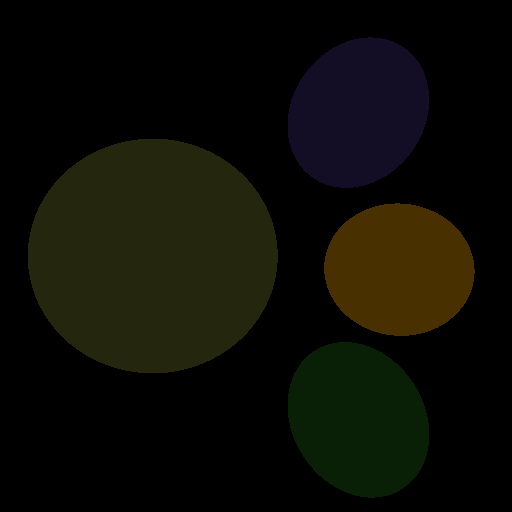
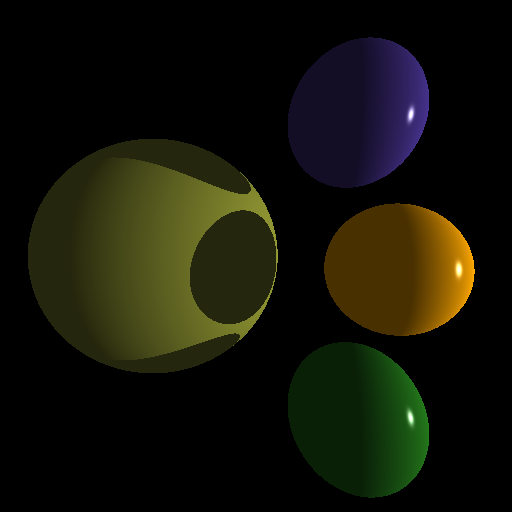
added acne bias safe guard offset

diff --git a/raytracer/src/main/java/at/ac/univie/unet/a01638800/raytracer/raytracedscene/RaytracedScene.java b/raytracer/src/main/java/at/ac/univie/unet/a01638800/raytracer/raytracedscene/RaytracedScene.java
@@ -9,8 +9,8 @@ import at.ac.univie.unet.a01638800.raytracer.phong.PhongShader;
 import at.ac.univie.unet.a01638800.raytracer.scene.*;
 import at.ac.univie.unet.a01638800.raytracer.surfaces.Sphere;
 import at.ac.univie.unet.a01638800.utils.RgbMapper;
+import at.ac.univie.unet.a01638800.raytracer.geometricobjects.Color;
 
-import java.awt.Color;
 import java.awt.image.BufferedImage;
 
 public class RaytracedScene {
@@ -78,39 +78,57 @@ public class RaytracedScene {
     }
 
     private void calculatePixelsNoDebugMode() {
+
         // iterate through image dimensions
         for (int x = 0; x < this.sceneWidth; x++) {
             for (int y = 0; y < this.sceneHeight; y++) {
-                Intersection intersection = null;
-                at.ac.univie.unet.a01638800.raytracer.geometricobjects.Color pixelColor = new at.ac.univie.unet.a01638800.raytracer.geometricobjects.Color();
+
+                // for every pixel, check camera ray intersection, shadow ray intersection and calculate pixel color
+                Intersection cameraRayIntersection = null;
+                Intersection shadowRayIntersection = null;
+                Color pixelColor = new Color();
 
                 // check for intersections with every surface
                 for (Sphere sphere : this.spheres) {
-                    intersection = sphere.intersectionDetected(this.camera.getRays()[x][y]);
+                    cameraRayIntersection = sphere.intersectionDetected(this.camera.getRays()[x][y]);
 
-                    if (intersection != null) {
+                    // camera ray intersection returns an intersection
+                    if (cameraRayIntersection != null) {
+
+                        // illuminate object for every light
                         for (Light light : this.parsedScene.getLights().getLights()) {
-                            if (light instanceof ParallelLight) {
-                                Intersection shadowIntersection = this.checkForShadow(intersection, light);
 
-                                if (shadowIntersection == null) {
-                                    // calculate pixel color for each light
-                                    PhongShader shader = new PhongShader(light, sphere.getParsedSphere().getMaterialSolid(), intersection, true);
-                                    pixelColor = pixelColor.addColor(shader.calculatePixelColor());
-                                    
-                                    break;
-                                }
-                            } else if (light instanceof AmbientLight) {
-                                // calculate pixel color illumination for each light
-                                PhongShader shader = new PhongShader(light, sphere.getParsedSphere().getMaterialSolid(), intersection, false);
+                            // ambient light
+                            if (light instanceof  AmbientLight) {
+
+                                // Phong shader without illumination (only ambient)
+                                PhongShader shader = new PhongShader(light, sphere.getParsedSphere().getMaterialSolid(), cameraRayIntersection, false);
+
                                 pixelColor = pixelColor.addColor(shader.calculatePixelColor());
+
+                               // directional light
+                            } else if (light instanceof ParallelLight) {
+
+                                // check for shadow
+                               shadowRayIntersection = this.checkForShadow(cameraRayIntersection, (ParallelLight) light);
+
+                                // no shadow was detected
+                                if (shadowRayIntersection == null) {
+
+                                    // calculate pixel color for each light with illumination (diffuse + specular)
+                                    PhongShader shader = new PhongShader(light, sphere.getParsedSphere().getMaterialSolid(), cameraRayIntersection, true);
+
+                                    pixelColor = pixelColor.addColor(shader.calculatePixelColor());
+
+                                    break;
+                                } // else ignore
                             }
                         }
                         break;
                     }
                 }
 
-                if (intersection == null) {
+                if (cameraRayIntersection == null) {
                     // set pixel color to background color
                     pixelColor.setR(Double.parseDouble(this.parsedScene.getBackgroundColor().getR()));
                     pixelColor.setG(Double.parseDouble(this.parsedScene.getBackgroundColor().getG()));
@@ -122,17 +140,16 @@ public class RaytracedScene {
         }
     }
 
-    private Intersection checkForShadow(Intersection cameraRayIntersection, Light lightSource) {
-        ParallelLight parallelLight = (ParallelLight) lightSource;
+    private Intersection checkForShadow(Intersection cameraRayIntersection, ParallelLight parallelLight) {
         Intersection shadowIntersection = null;
-
         Ray shadowRay = new Ray();
-        shadowRay.setOrigin(cameraRayIntersection.getIntersectionPoint().addVector(cameraRayIntersection.getRayDirection().scaleByFactor(0.00000001)));
+
+        shadowRay.setOrigin(cameraRayIntersection.getIntersectionPoint());
         shadowRay.setDirection(new Vector(
                 Double.parseDouble(parallelLight.getDirection().getX()),
                 Double.parseDouble(parallelLight.getDirection().getY()),
                 Double.parseDouble(parallelLight.getDirection().getZ())
-        ).invert());
+        ).invert().normalize());
 
         for (Sphere sphere : this.spheres) {
             shadowIntersection = sphere.intersectionDetected(shadowRay);
@@ -192,7 +209,7 @@ public class RaytracedScene {
                     if (intersection == null) {
                         this.image.getRaster().setDataElements(x, this.sceneHeight - 1 - y, RgbMapper.mapCoordinatesToRgb(coordinates));
                     } else {
-                        this.image.setRGB(x, this.sceneHeight - 1 - y, Color.WHITE.getRGB());
+                        this.image.setRGB(x, this.sceneHeight - 1 - y, java.awt.Color.WHITE.getRGB());
                     }
                 }
             }

diff --git a/raytracer/src/main/java/at/ac/univie/unet/a01638800/raytracer/phong/PhongShader.java b/raytracer/src/main/java/at/ac/univie/unet/a01638800/raytracer/phong/PhongShader.java
@@ -3,6 +3,7 @@ package at.ac.univie.unet.a01638800.raytracer.phong;
 import at.ac.univie.unet.a01638800.raytracer.geometricobjects.Color;
 import at.ac.univie.unet.a01638800.raytracer.geometricobjects.Vector;
 import at.ac.univie.unet.a01638800.raytracer.intersection.Intersection;
+import at.ac.univie.unet.a01638800.raytracer.scene.AmbientLight;
 import at.ac.univie.unet.a01638800.raytracer.scene.Light;
 import at.ac.univie.unet.a01638800.raytracer.scene.MaterialSolid;
 import at.ac.univie.unet.a01638800.raytracer.scene.ParallelLight;
@@ -32,7 +33,7 @@ public class PhongShader {
     /**
      * The light color
      */
-    private final Color lightColor;
+    private Color lightColor;
 
     public PhongShader(Light light, MaterialSolid materialSolid, Intersection intersection, boolean illuminate) {
         this.light = light;
@@ -147,14 +148,12 @@ public class PhongShader {
         );
 
         // compute color components individually
-        if (!illuminate) {
-            return this.getAmbientColorComponent(objectColor);
-        } else {
-            Color diffuse = this.getDiffuseColorComponent(objectColor, normalVector, pointToLightVector);
-            Color specular = this.getSpecularColorComponent(normalVector, pointToLightVector, pointToCameraVector, reflectionVector);
+        Color ambient = this.getAmbientColorComponent(objectColor);
+        Color diffuse = this.getDiffuseColorComponent(objectColor, normalVector, pointToLightVector);
+        Color specular = this.getSpecularColorComponent(normalVector, pointToLightVector, pointToCameraVector, reflectionVector);
 
-            return colorComponents.addColor(diffuse).addColor(specular);
-        }
+        // fill color array with components
+        return colorComponents.addColor(ambient).addColor(diffuse).addColor(specular);
     }
 
     /**
@@ -165,9 +164,13 @@ public class PhongShader {
      * @return the ambient color component for r, g and b
      */
     private Color getAmbientColorComponent(Color objectColor) {
-        double materialAmbientComponent = Double.parseDouble(this.materialSolid.getPhong().getKa());
+        // only compute for ambient light TODO
+        if (!illuminate) {
+            double materialAmbientComponent = Double.parseDouble(this.materialSolid.getPhong().getKa());
 
-        return objectColor.multiplyByFactor(materialAmbientComponent);
+            return objectColor.multiplyByFactor(materialAmbientComponent);
+        }
+        return new Color();
     }
 
     /**

diff --git a/raytracer/src/main/java/at/ac/univie/unet/a01638800/raytracer/surfaces/Sphere.java b/raytracer/src/main/java/at/ac/univie/unet/a01638800/raytracer/surfaces/Sphere.java
@@ -6,6 +6,7 @@ import at.ac.univie.unet.a01638800.raytracer.geometricobjects.Vector;
 import at.ac.univie.unet.a01638800.raytracer.intersection.Intersection;
 
 public class Sphere extends Surface {
+    private static final double EPSILON_OFFSET = 0.00000001;
     private at.ac.univie.unet.a01638800.raytracer.scene.Sphere parsedSphere;
     private Point center;
     private double radius;
@@ -83,12 +84,12 @@ public class Sphere extends Surface {
 
         if(solution == null) {
             return null;
-        } else if(solution[0] < 0.0){
-            if(solution[1] >= 0.0) {
+        } else if(solution[0] < EPSILON_OFFSET){
+            if(solution[1] >= EPSILON_OFFSET) {
                 return new Intersection(rayOrigin, this.center, rayDirection, solution[1]);
             }
-        } else if(solution[1] < 0.0){
-            if(solution[0] >= 0.0) {
+        } else if(solution[1] < EPSILON_OFFSET){
+            if(solution[0] >= EPSILON_OFFSET) {
                 return new Intersection(rayOrigin, this.center, rayDirection, solution[0]);
             }
         } else {
